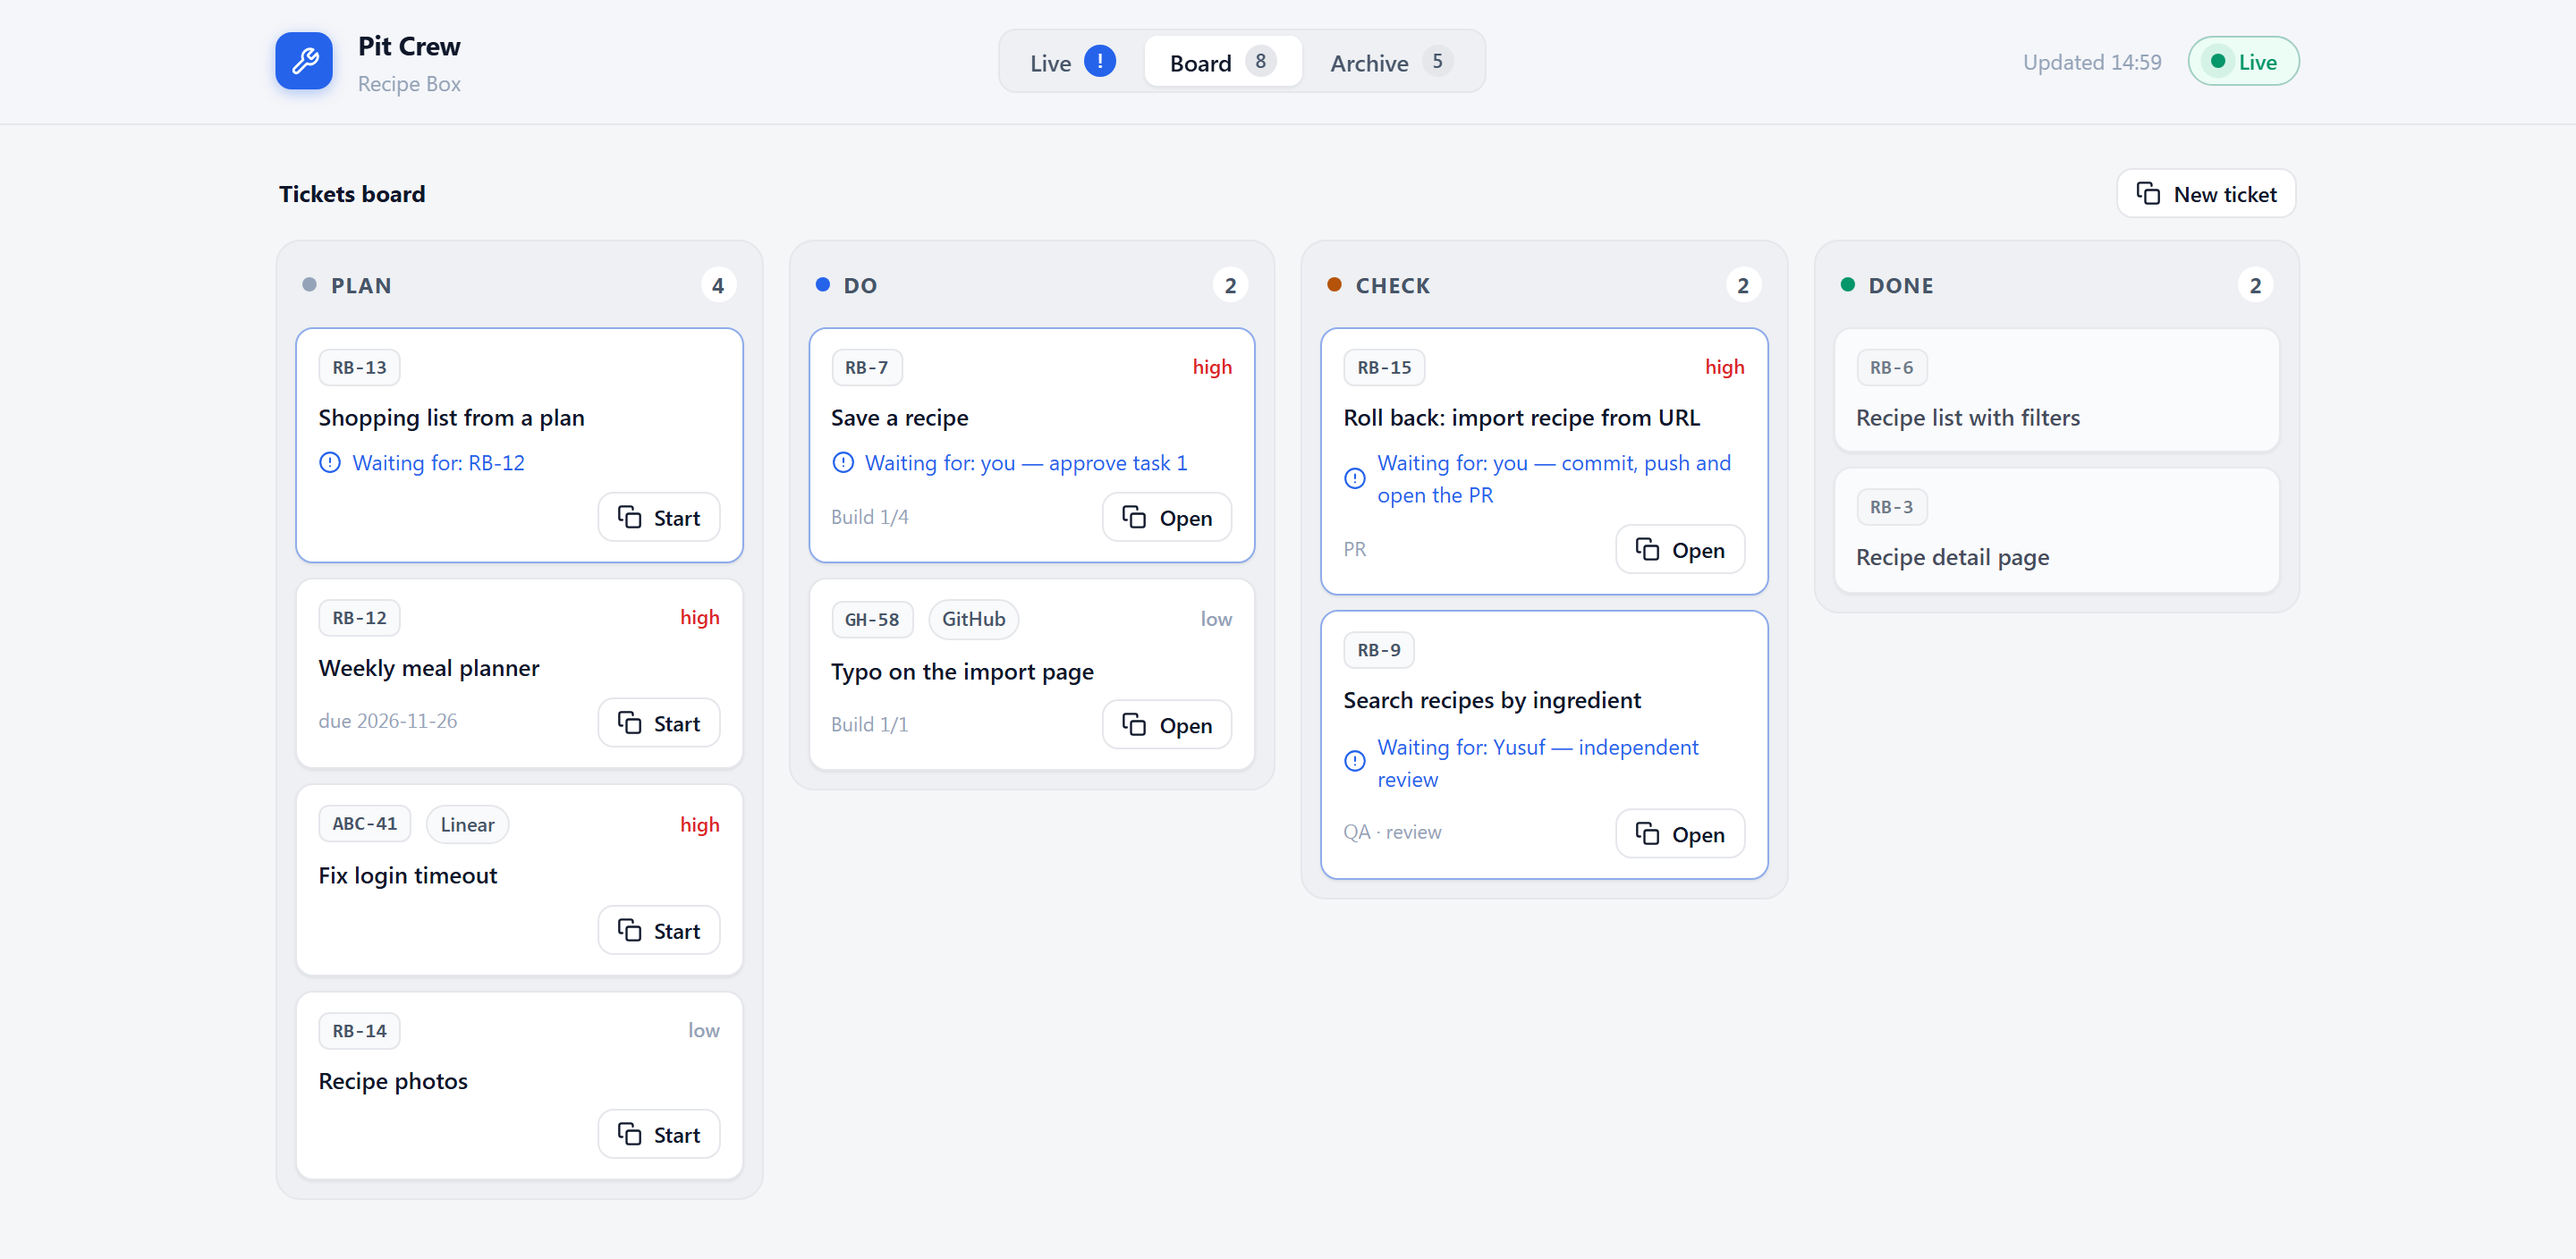
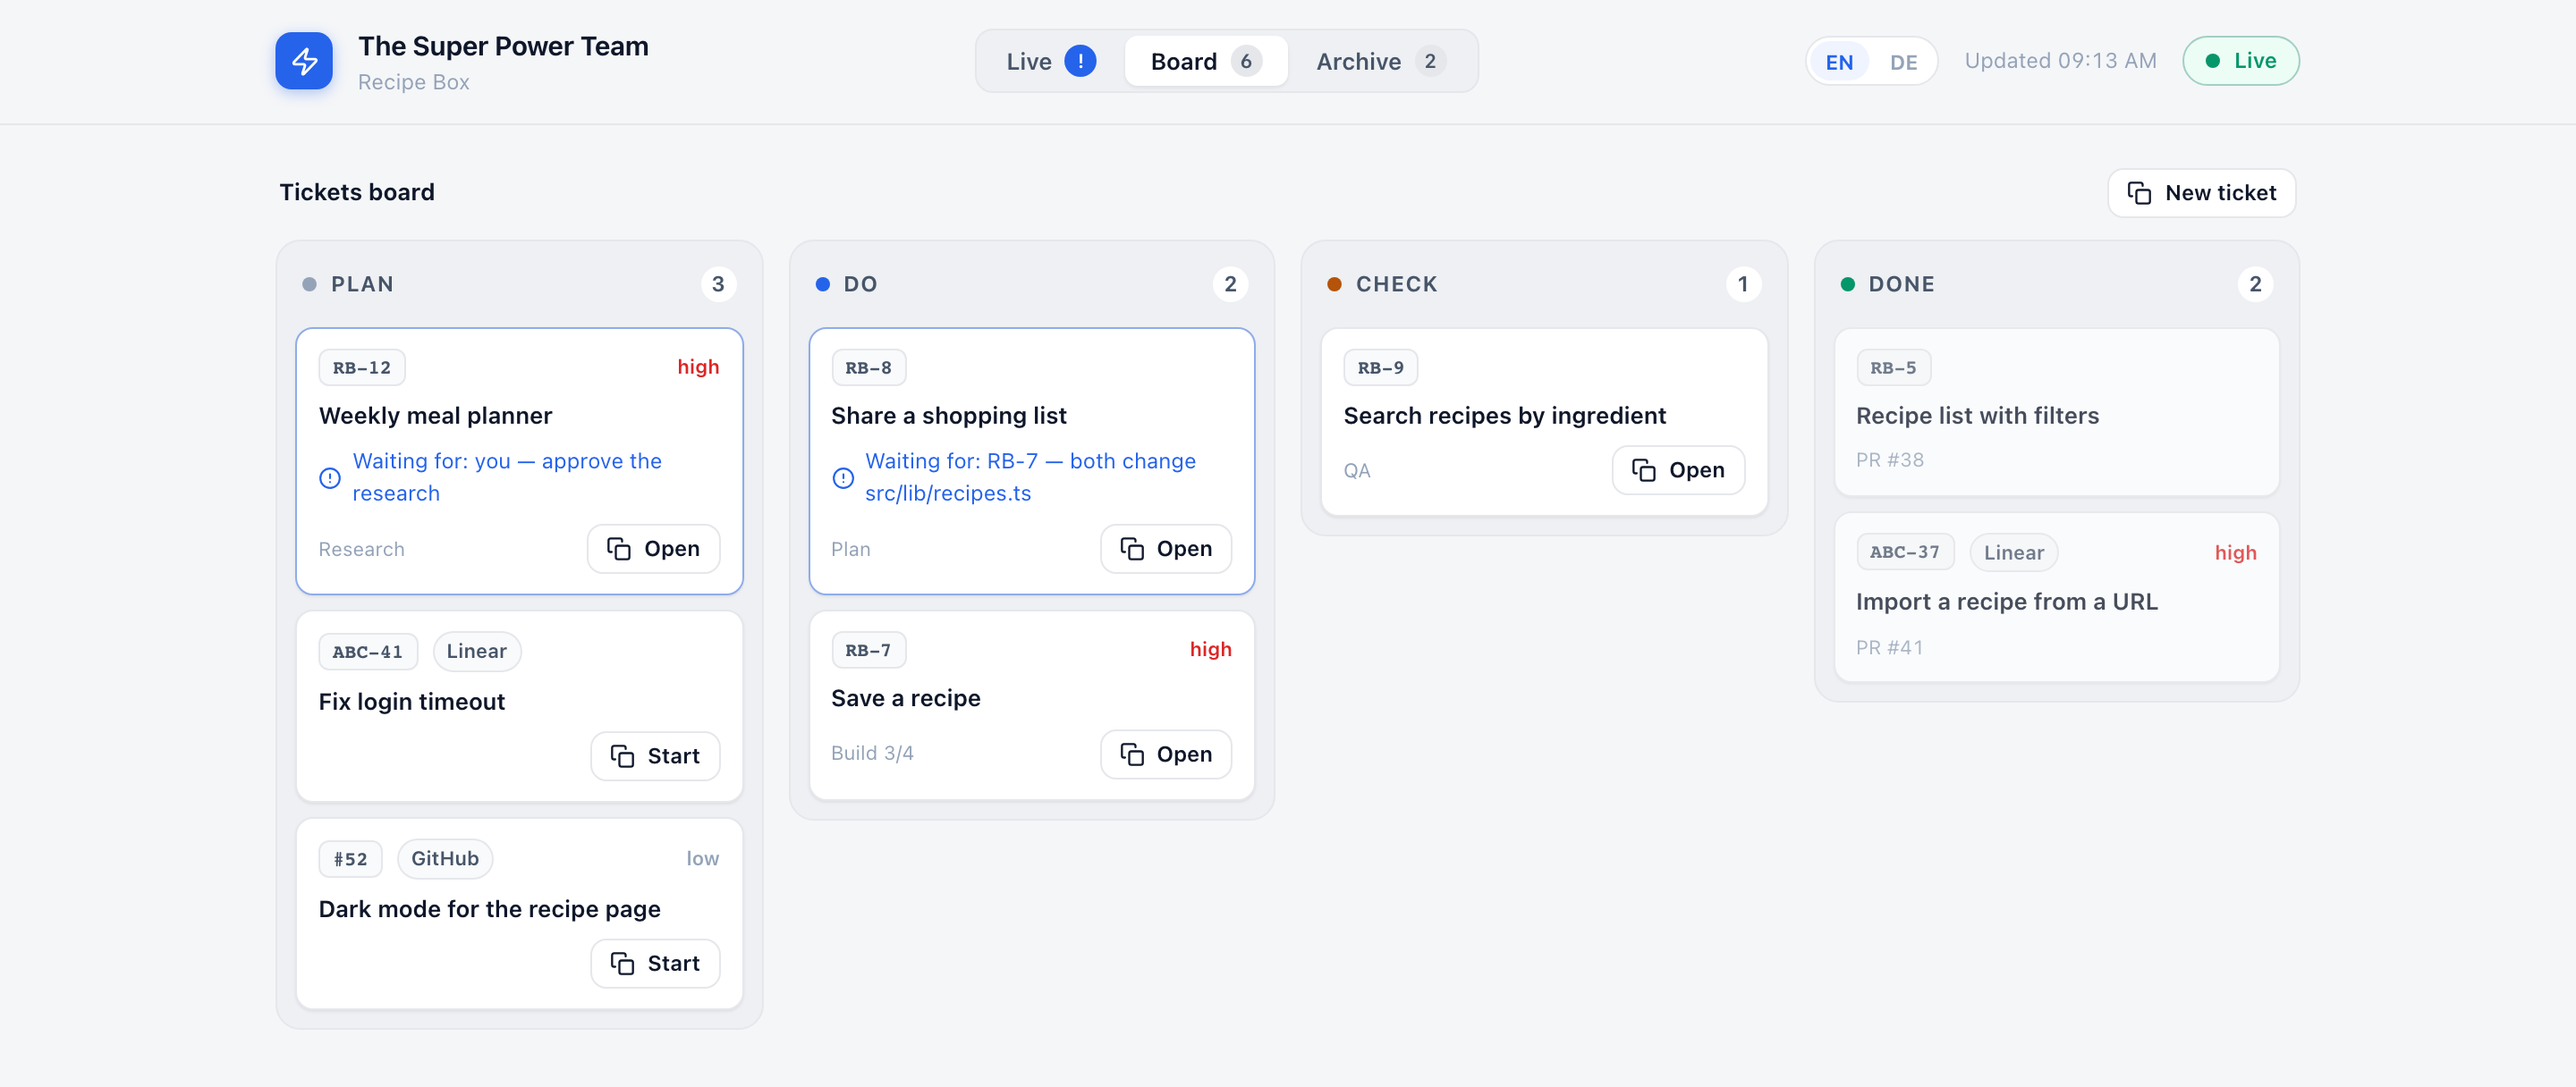
Release 0.15.0: dashboard language switch and workflow characters
- Version 0.15.0 in package.json, plugin.json and both README badges.
- CHANGELOG and README describe the language switch and the animated
  workflow characters.
- New dashboard screenshots (live view and board), light mode at 2x.
- Remove a stray "fd" line before <!doctype html> in dashboard.html
  that showed as text at the top of the page.

diff --git a/plugins/team/skills/dashboard/dashboard.html b/plugins/team/skills/dashboard/dashboard.html
@@ -1,4 +1,3 @@
-fd
 <!doctype html>
 <html lang="en">
 <head>

diff --git a/README.md b/README.md
@@ -7,7 +7,7 @@
 <p align="center"><strong>An agent team for Claude Code that takes a ticket from idea to pull request — while you stay in the driver's seat.</strong></p>
 
 <p align="center">
-  <img src="https://img.shields.io/badge/version-0.14.1-155eef?style=flat-square" alt="version 0.14.1">
+  <img src="https://img.shields.io/badge/version-0.15.0-155eef?style=flat-square" alt="version 0.15.0">
   <a href="https://www.npmjs.com/package/the-super-power-team"><img src="https://img.shields.io/npm/v/the-super-power-team?style=flat-square&color=155eef&label=npm" alt="npm package"></a>
   <img src="https://img.shields.io/badge/Claude%20Code-plugin-155eef?style=flat-square" alt="Claude Code plugin">
   <a href="https://github.com/al-shaikhli-w/the-super-power-team/blob/master/LICENSE"><img src="https://img.shields.io/badge/license-MIT-155eef?style=flat-square" alt="MIT license"></a>
@@ -431,9 +431,10 @@ on your model, and the crew says so.
 
 See every agent, every ticket and everything that waits for you in one page in
 your browser. It refreshes every 4 seconds, works offline, and needs no server
-or install.
+or install. It opens in English; the switch at the top changes it to German or to your
+team's reply language, and the page remembers your choice.
 
-![The Super Power Team dashboard: a question waiting for approval, the commands ready to commit, and a ticket's workflow with the independent reviewer working and its live panel](https://raw.githubusercontent.com/al-shaikhli-w/the-super-power-team/master/assets/dashboard-live.png)
+![The Super Power Team dashboard: a question waiting for approval, the commands ready to commit, and a ticket's workflow as small characters — three done and happy, the developer lead working, the rest asleep — and the developer lead's live panel](https://raw.githubusercontent.com/al-shaikhli-w/the-super-power-team/master/assets/dashboard-live.png)
 
 ```text
 /team-dashboard
@@ -443,7 +444,7 @@ or install.
 | --- | --- |
 | **Needs you** | The crew's open question with Approve, Change and Stop buttons that copy your answer. |
 | **Ready to commit** | The commit message and every command — stage, commit, push, PR — each with a copy button. The page never runs anything. |
-| **Workflow** | Each ticket's steps as connected nodes, with the security engineer under Research (threat check) and QA (security review) and Rafi under PR (posts); the running agent glows with what it does this second. Click a step for its agent's panel: task, timer, every step, files changed and read, and its final report. |
+| **Workflow** | Each ticket's steps as small animated characters, one per agent with its own hat, with the security engineer under Research (threat check) and QA (security review) and Rafi under PR (posts). A character sleeps until its step starts, thinks when it is its turn, works when its agent runs, waves when it waits for you, is happy when done and dizzy when QA fails; a sheet of paper travels along the line when work is handed on. The running agent shows what it does this second. Click a step for its agent's panel: task, timer, every step, files changed and read, and its final report. |
 | **Team** | With several tickets: each developer and QA engineer with the ticket and step they are on, the free places, and the tickets waiting for another one. |
 | **Security** | Your security to-do list from `security.md`: open items by severity with a **Fix** button (copies `/team-security fix SEC-<n>`), accepted risks and fixed items. A counter in the workflow bar turns red when an item is high. Only titles are shown — never the fix or a secret. |
 | **Marketing** | Rafi's marketing plan and its one-sentence message, the next days on the post calendar, and every post draft with its channels and status (`draft` or `posted`). |
@@ -659,7 +660,7 @@ back.
 | Task | Command |
 | --- | --- |
 | **Update to the newest version** | `npx the-super-power-team@latest` |
-| **Install a specific version** | `npx the-super-power-team@0.14.1` |
+| **Install a specific version** | `npx the-super-power-team@0.15.0` |
 | **See which version you have** | `claude plugin list` |
 | **Uninstall** | `npx the-super-power-team uninstall` |
 | **Help** | `npx the-super-power-team help` |

diff --git a/plugins/team/README.md b/plugins/team/README.md
@@ -7,7 +7,7 @@
 <p align="center"><strong>An agent team for Claude Code that takes a ticket from idea to pull request — while you stay in the driver's seat.</strong></p>
 
 <p align="center">
-  <img src="https://img.shields.io/badge/version-0.14.1-155eef?style=flat-square" alt="version 0.14.1">
+  <img src="https://img.shields.io/badge/version-0.15.0-155eef?style=flat-square" alt="version 0.15.0">
   <a href="https://www.npmjs.com/package/the-super-power-team"><img src="https://img.shields.io/npm/v/the-super-power-team?style=flat-square&color=155eef&label=npm" alt="npm package"></a>
   <img src="https://img.shields.io/badge/Claude%20Code-plugin-155eef?style=flat-square" alt="Claude Code plugin">
   <a href="https://github.com/al-shaikhli-w/the-super-power-team/blob/master/LICENSE"><img src="https://img.shields.io/badge/license-MIT-155eef?style=flat-square" alt="MIT license"></a>
@@ -431,9 +431,10 @@ on your model, and the crew says so.
 
 See every agent, every ticket and everything that waits for you in one page in
 your browser. It refreshes every 4 seconds, works offline, and needs no server
-or install.
+or install. It opens in English; the switch at the top changes it to German or to your
+team's reply language, and the page remembers your choice.
 
-![The Super Power Team dashboard: a question waiting for approval, the commands ready to commit, and a ticket's workflow with the independent reviewer working and its live panel](https://raw.githubusercontent.com/al-shaikhli-w/the-super-power-team/master/assets/dashboard-live.png)
+![The Super Power Team dashboard: a question waiting for approval, the commands ready to commit, and a ticket's workflow as small characters — three done and happy, the developer lead working, the rest asleep — and the developer lead's live panel](https://raw.githubusercontent.com/al-shaikhli-w/the-super-power-team/master/assets/dashboard-live.png)
 
 ```text
 /team-dashboard
@@ -443,7 +444,7 @@ or install.
 | --- | --- |
 | **Needs you** | The crew's open question with Approve, Change and Stop buttons that copy your answer. |
 | **Ready to commit** | The commit message and every command — stage, commit, push, PR — each with a copy button. The page never runs anything. |
-| **Workflow** | Each ticket's steps as connected nodes, with the security engineer under Research (threat check) and QA (security review) and Rafi under PR (posts); the running agent glows with what it does this second. Click a step for its agent's panel: task, timer, every step, files changed and read, and its final report. |
+| **Workflow** | Each ticket's steps as small animated characters, one per agent with its own hat, with the security engineer under Research (threat check) and QA (security review) and Rafi under PR (posts). A character sleeps until its step starts, thinks when it is its turn, works when its agent runs, waves when it waits for you, is happy when done and dizzy when QA fails; a sheet of paper travels along the line when work is handed on. The running agent shows what it does this second. Click a step for its agent's panel: task, timer, every step, files changed and read, and its final report. |
 | **Team** | With several tickets: each developer and QA engineer with the ticket and step they are on, the free places, and the tickets waiting for another one. |
 | **Security** | Your security to-do list from `security.md`: open items by severity with a **Fix** button (copies `/team-security fix SEC-<n>`), accepted risks and fixed items. A counter in the workflow bar turns red when an item is high. Only titles are shown — never the fix or a secret. |
 | **Marketing** | Rafi's marketing plan and its one-sentence message, the next days on the post calendar, and every post draft with its channels and status (`draft` or `posted`). |
@@ -659,7 +660,7 @@ back.
 | Task | Command |
 | --- | --- |
 | **Update to the newest version** | `npx the-super-power-team@latest` |
-| **Install a specific version** | `npx the-super-power-team@0.14.1` |
+| **Install a specific version** | `npx the-super-power-team@0.15.0` |
 | **See which version you have** | `claude plugin list` |
 | **Uninstall** | `npx the-super-power-team uninstall` |
 | **Help** | `npx the-super-power-team help` |

diff --git a/CHANGELOG.md b/CHANGELOG.md
@@ -1,5 +1,11 @@
 # Changelog
 
+## 0.15.0
+
+- Dashboard in your language: a switch in the header for English (the default), German and the team's reply language. The page remembers the choice. `status.js` gains an optional `lang` code so the switch shows the reply language by its own name (`العربية`, `Français`).
+- Workflow characters: every step is now a small animated character in its role's colour with its own hat — a light bulb for the product manager, glasses for the researcher, a hard hat for the project manager, headphones for the developer lead, a detective cap for QA, a party hat for Rafi. It sleeps until its step starts, thinks when it is its turn, works when its agent runs, waves when it waits for you, is happy when done and dizzy when QA fails. A sheet of paper travels along the line when one step hands work to the next. Reduced motion stops every animation.
+- New dashboard screenshots in the README.
+
 ## 0.14.1
 
 - Arabic in the terminal: the setup language question lists one choice per line with no brackets (it showed `)Arabic( العربية`), and a new `Right-to-left in the terminal` rule in `team.md` keeps every reply readable — one direction per line, commands and ids on their own line. `/team-update` adds the rule to existing projects.
